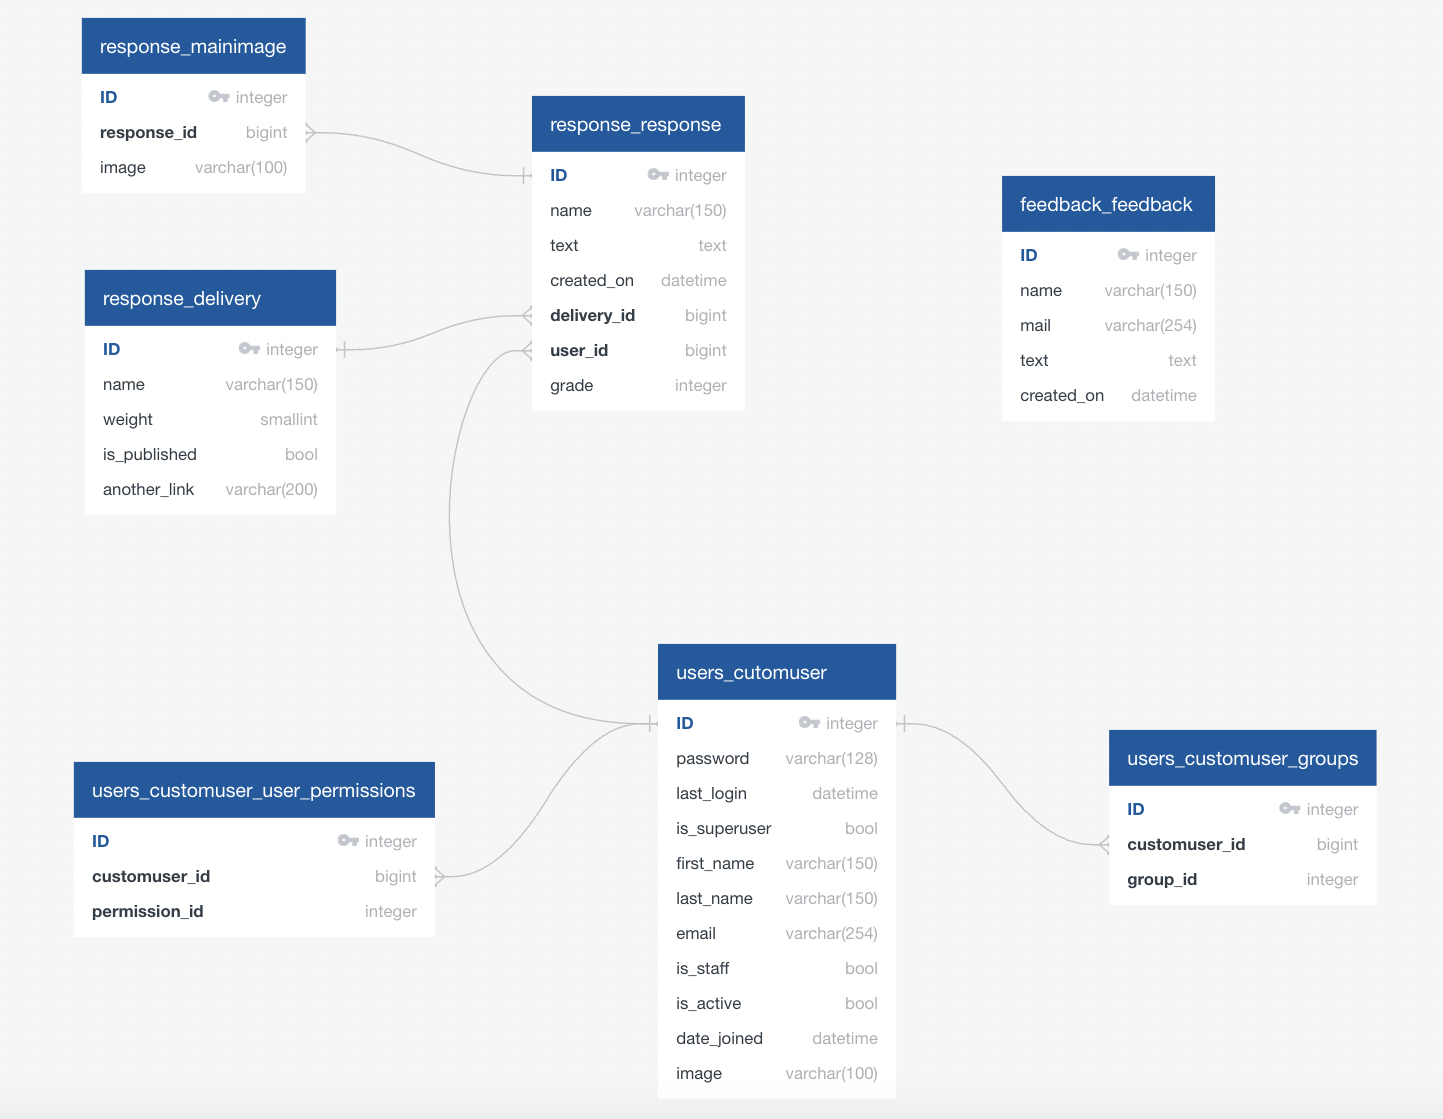
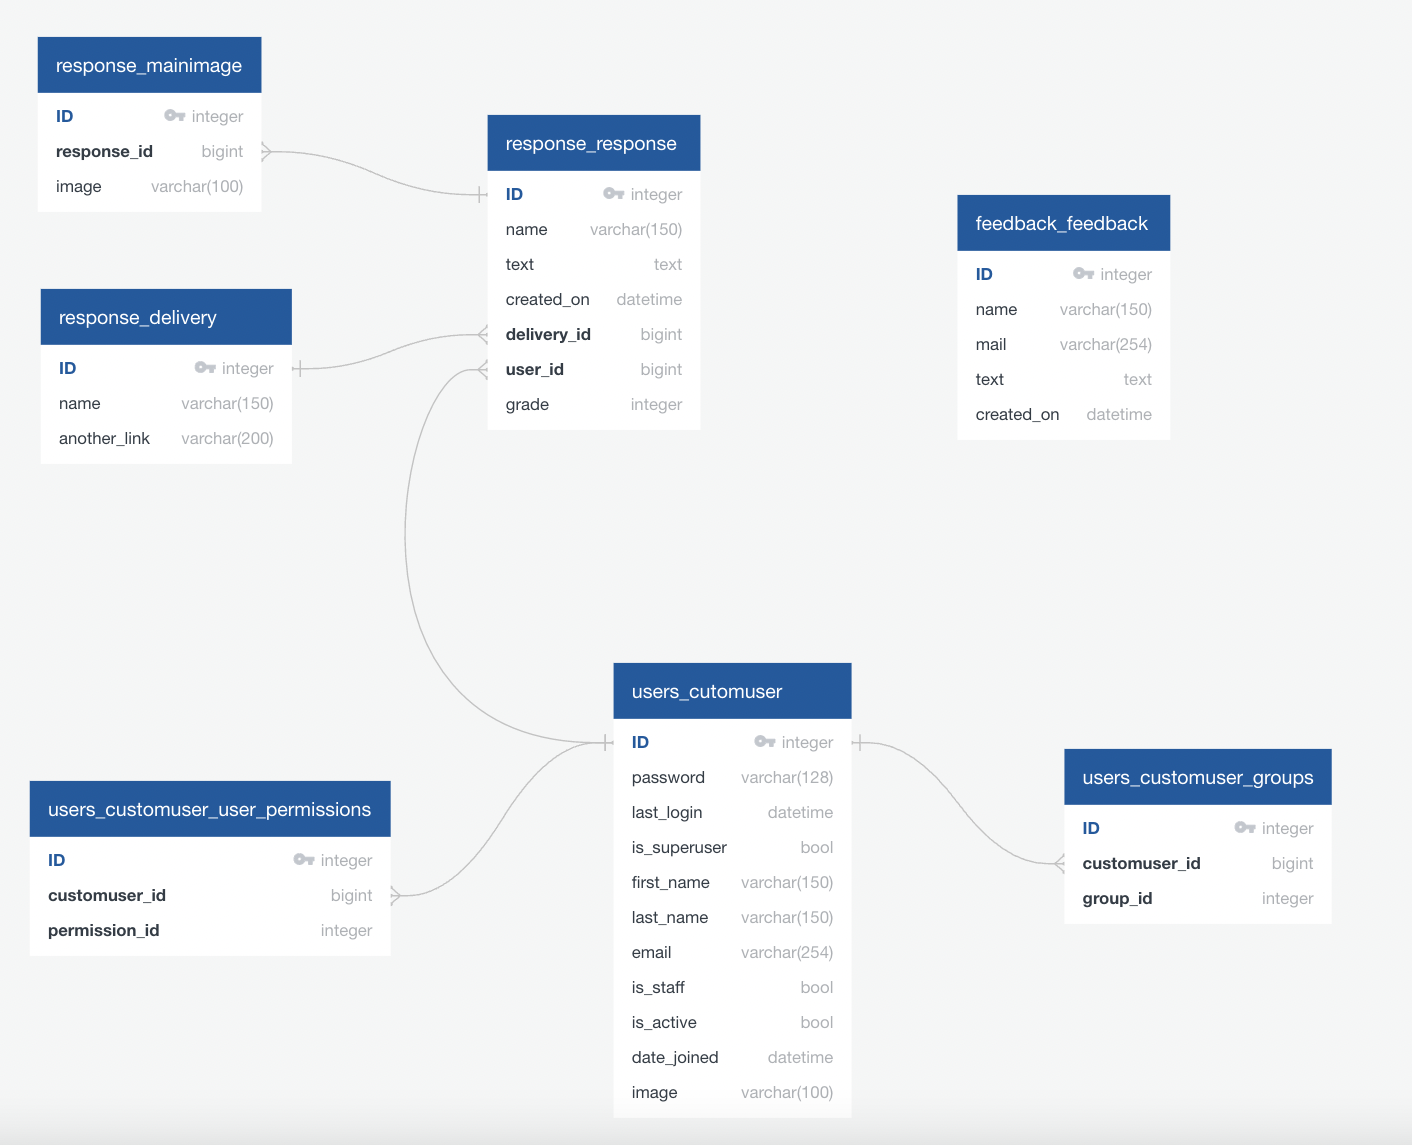
add files

diff --git a/fastgram/templates/response/includes/add_response.html b/fastgram/templates/response/includes/add_response.html
@@ -29,7 +29,7 @@
           <form method="post" enctype="multipart/form-data">
               {% csrf_token %}
               {{ form.as_p }}
-              {{ image_form.as_p }}
+              {{ image_form.as_p }} 
               <button type="submit" class="btn btn-dark mx-sm-3 w-25 ">
                   Опубликовать
               </button>

diff --git a/fastgram/core/models.py b/fastgram/core/models.py
@@ -35,7 +35,7 @@ class ImageBaseModel(models.Model):
     def image_tmb(self):
         if self.image:
             return mark_safe(
-                f'<img src="{self.get_img.url}" '
+                f'<img src="{self.get_img.url}"'
             )
         return 'Нет изображения'
 
@@ -49,7 +49,7 @@ class ImageBaseModel(models.Model):
     def small_image_tmb(self):
         if self.image:
             return mark_safe(
-                f'<img src="{self.get_small_img.url}" '
+                f'<img src="{self.get_small_img.url}"'
             )
         return 'Нет изображения'
 
@@ -84,7 +84,7 @@ class ImageUserBaseModel(models.Model):
     def image_tmb(self):
         if self.image:
             return mark_safe(
-                f'<img src="{self.get_img.url}" '
+                f'<img src="{self.get_img.url}"'
             )
         return 'Нет аватарки'
 
@@ -98,7 +98,7 @@ class ImageUserBaseModel(models.Model):
     def small_image_tmb(self):
         if self.image:
             return mark_safe(
-                f'<img src="{self.get_small_img.url}" '
+                f'<img src="{self.get_small_img.url}"'
             )
         return 'Нет аватарки'
 

diff --git a/fastgram/delivery/urls.py b/fastgram/delivery/urls.py
@@ -1,5 +1,4 @@
 from delivery import views
-
 from django.urls import path
 
 app_name = 'delivery'
@@ -7,5 +6,5 @@ app_name = 'delivery'
 urlpatterns = [
     path('', views.DeliveryView.as_view(), name='delivery'),
     path('shows', views.DeliveryShowView.as_view(), name='show'),
-    path('taxi', views.DeliveryTaxiView.as_view(), name='taxi')
+    path('taxi', views.DeliveryTaxiView.as_view(), name='taxi'),
 ]

diff --git a/fastgram/response/migrations/0020_remove_delivery_weight.py b/fastgram/response/migrations/0020_remove_delivery_weight.py
@@ -1,0 +1,17 @@
+# Generated by Django 3.2.16 on 2022-12-22 11:49
+
+from django.db import migrations
+
+
+class Migration(migrations.Migration):
+
+    dependencies = [
+        ('response', '0019_auto_20221222_0831'),
+    ]
+
+    operations = [
+        migrations.RemoveField(
+            model_name='delivery',
+            name='weight',
+        ),
+    ]

diff --git a/fastgram/response/models.py b/fastgram/response/models.py
@@ -63,12 +63,6 @@ class Response(NameBaseModel):
 
 
 class Delivery(NameBaseModel):
-    weight = models.PositiveSmallIntegerField(
-        'вес',
-        default=100,
-        help_text='Максимум 32767',
-    )
-
     another_link = models.URLField(
         'другие отзывы',
         max_length=200,

diff --git a/fastgram/response/admin.py b/fastgram/response/admin.py
@@ -43,7 +43,4 @@ class MainImageAdmin(admin.ModelAdmin):
 
 @admin.register(Comment)
 class CommentAdmin(admin.ModelAdmin):
-    list_display = (
-        'user',
-        'response',
-    )
+    list_display = ('user', 'response')
